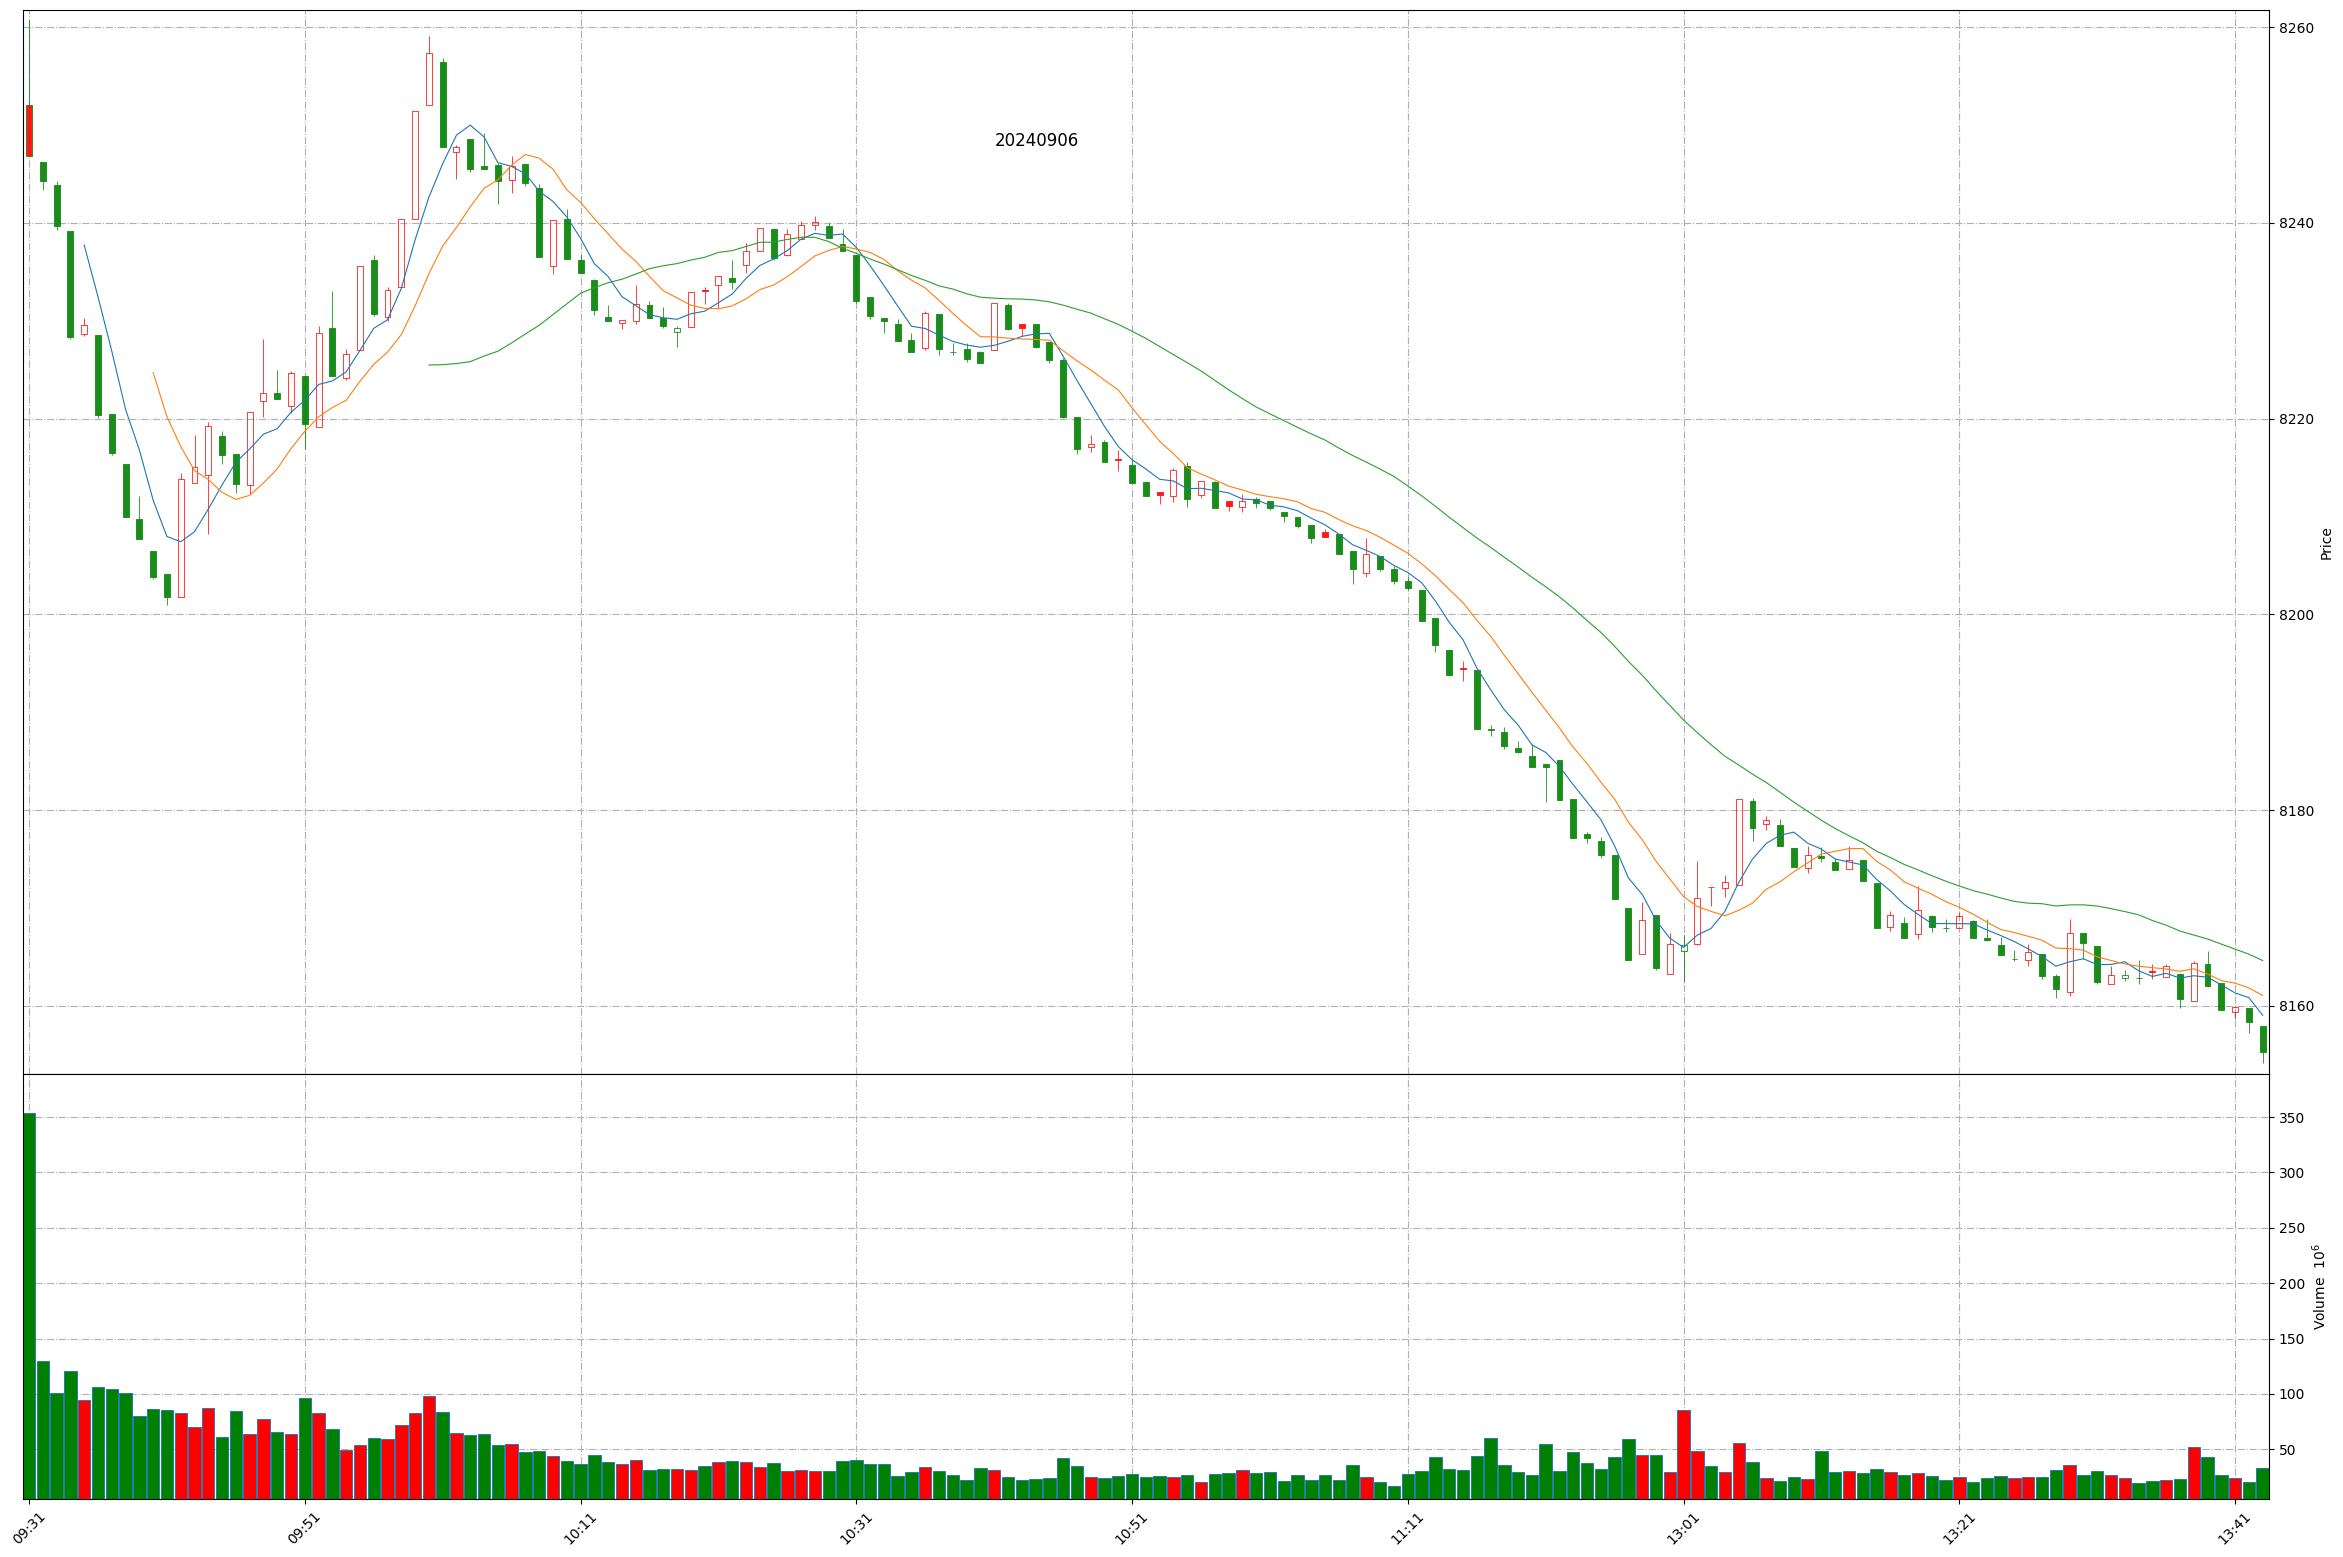
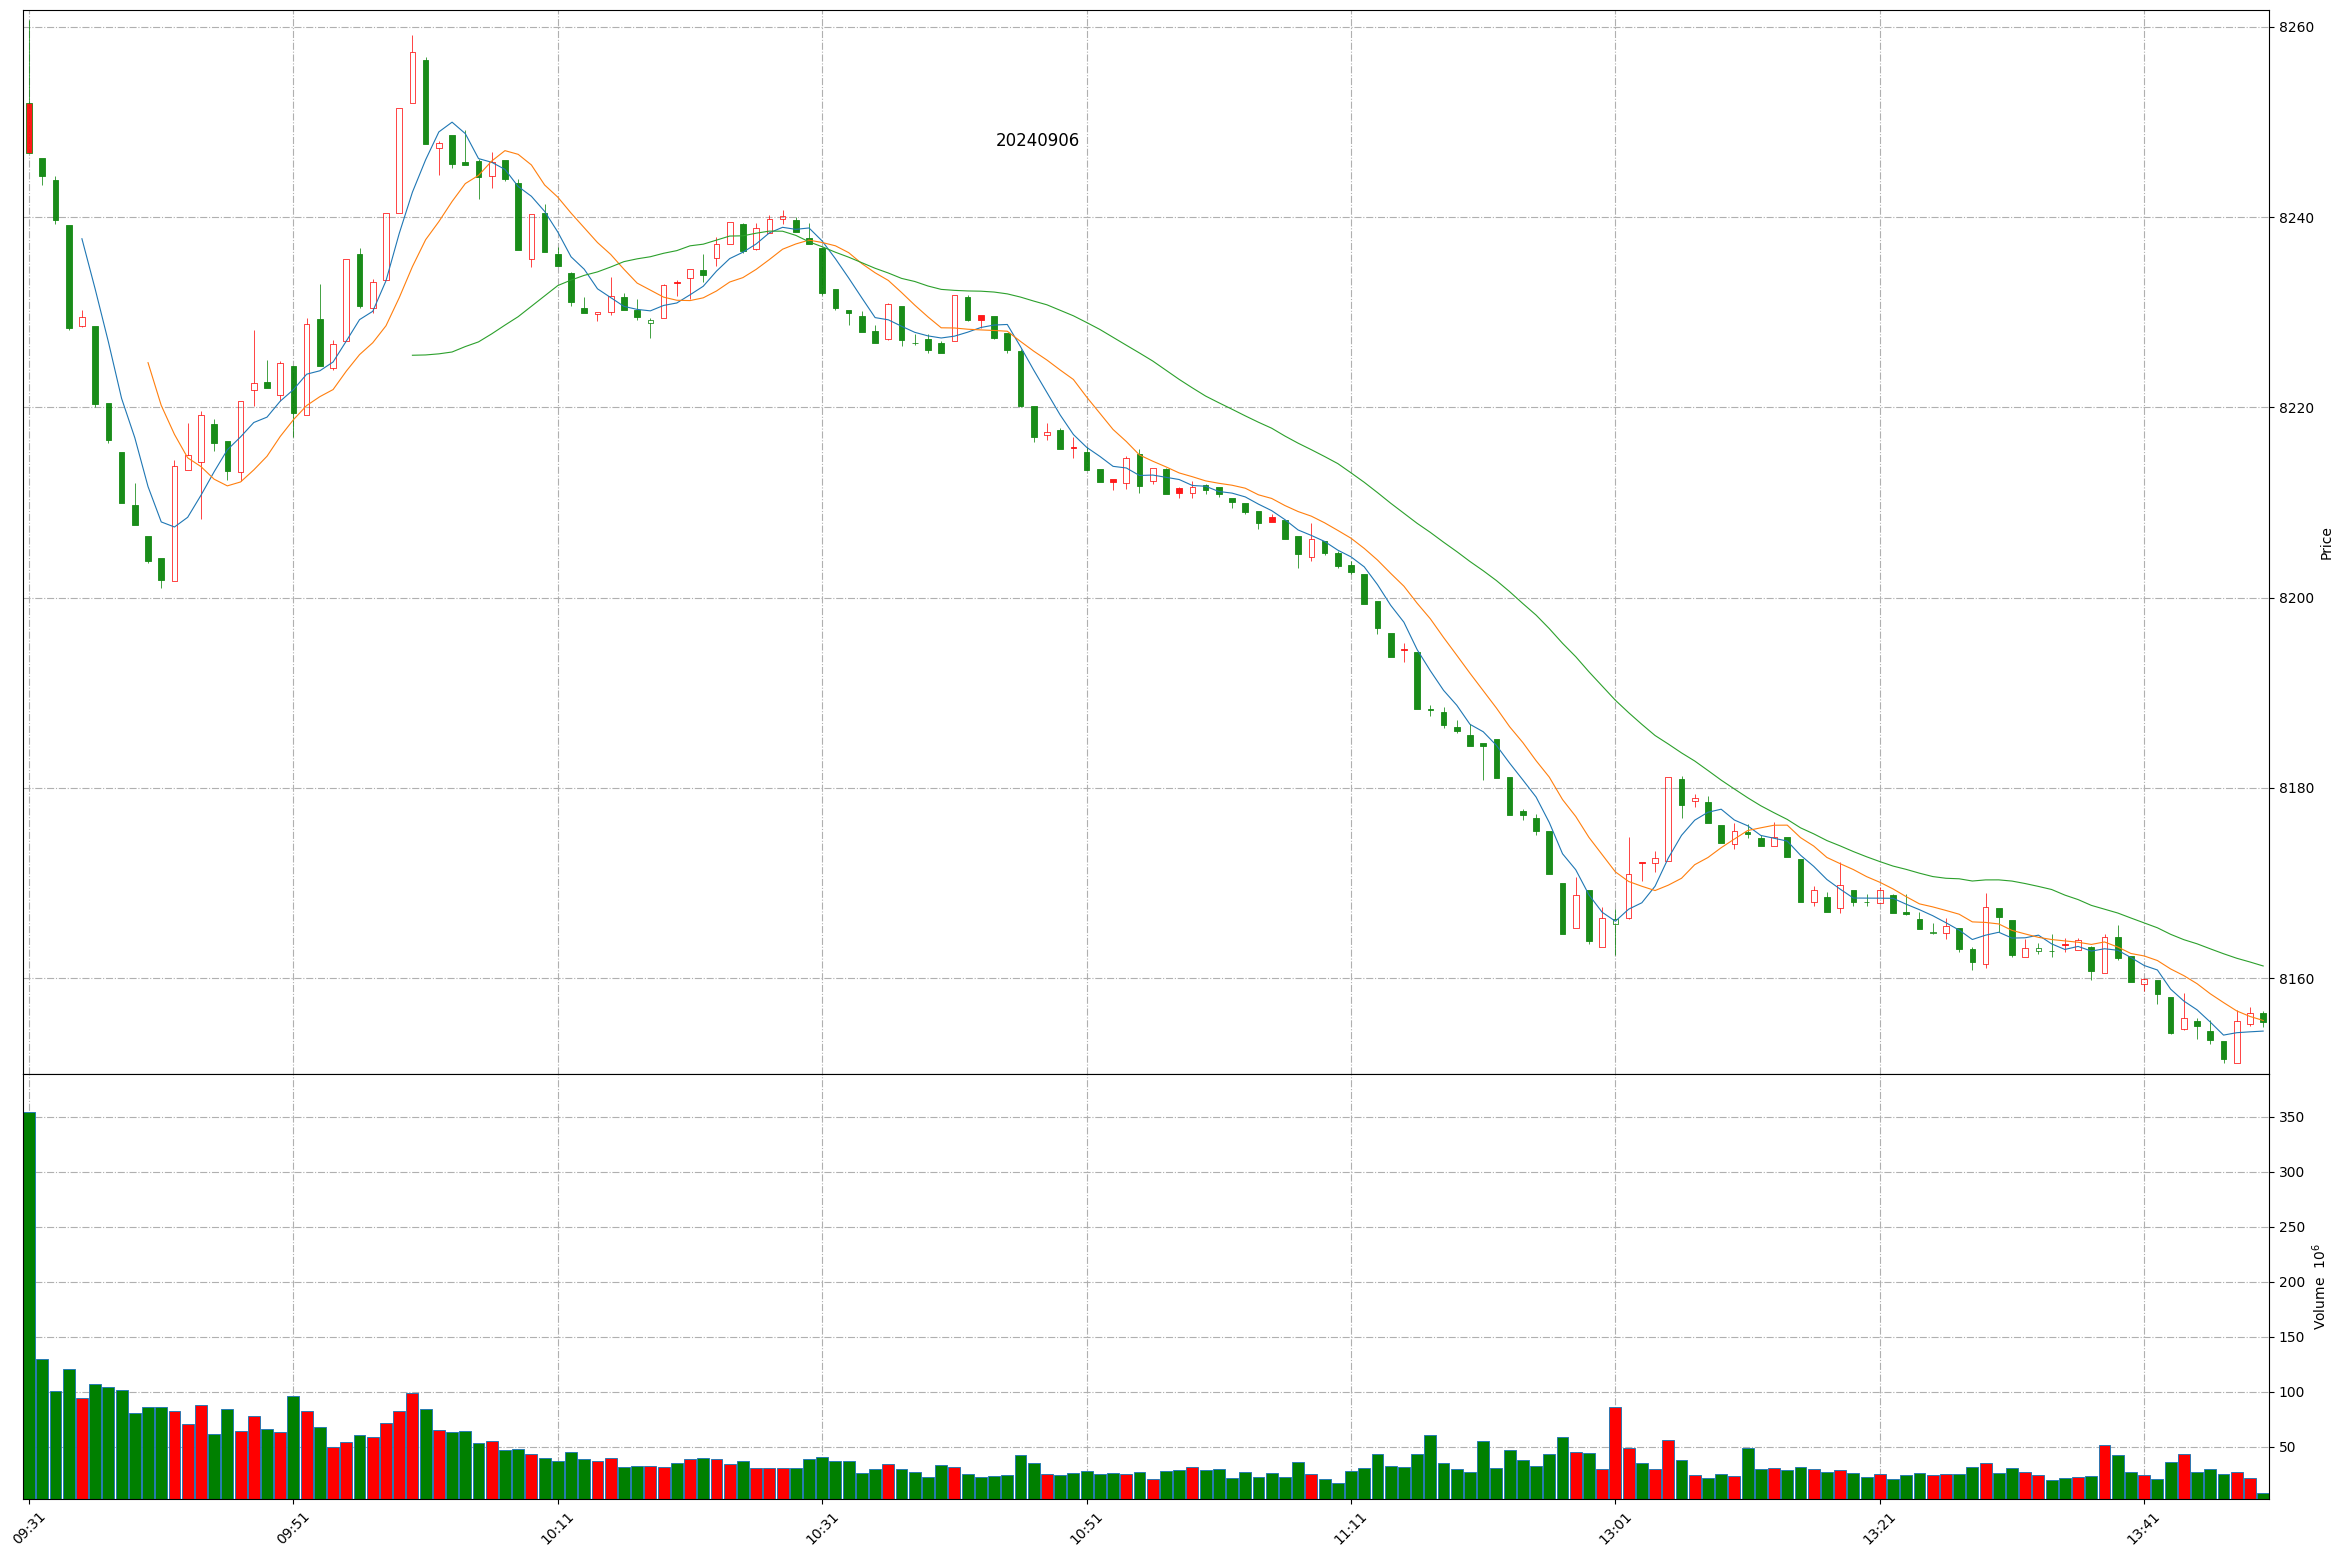
Github action update at 2024-09-06 13:49:41.

diff --git a/README.md b/README.md
@@ -1,11 +1,11 @@
 
 # Daily-A-share-market-quotes 每日 A 股指数（5min 更新）- 20240906
 
-### 上证指数 20240906 13:43
+### 上证指数 20240906 13:49
 ![](./fig/2024/9/20240906-sh000001.png)
 
-### 深证成指 20240906 13:43
+### 深证成指 20240906 13:49
 ![](./fig/2024/9/20240906-sz399001.png)
 
-### 北证50 20240906 13:43
+### 北证50 20240906 13:49
 ![](./fig/2024/9/20240906-bj899050.png)
